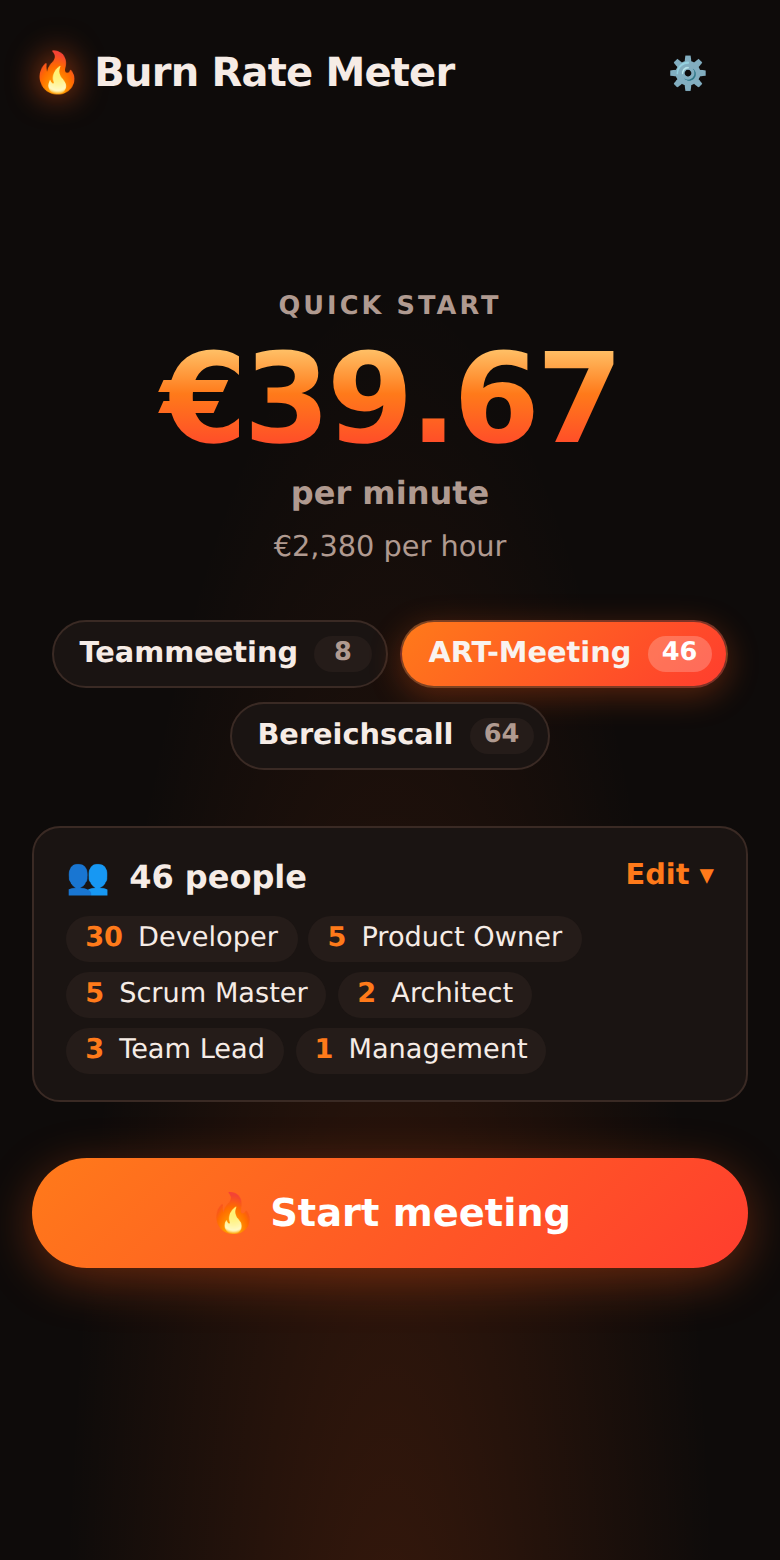
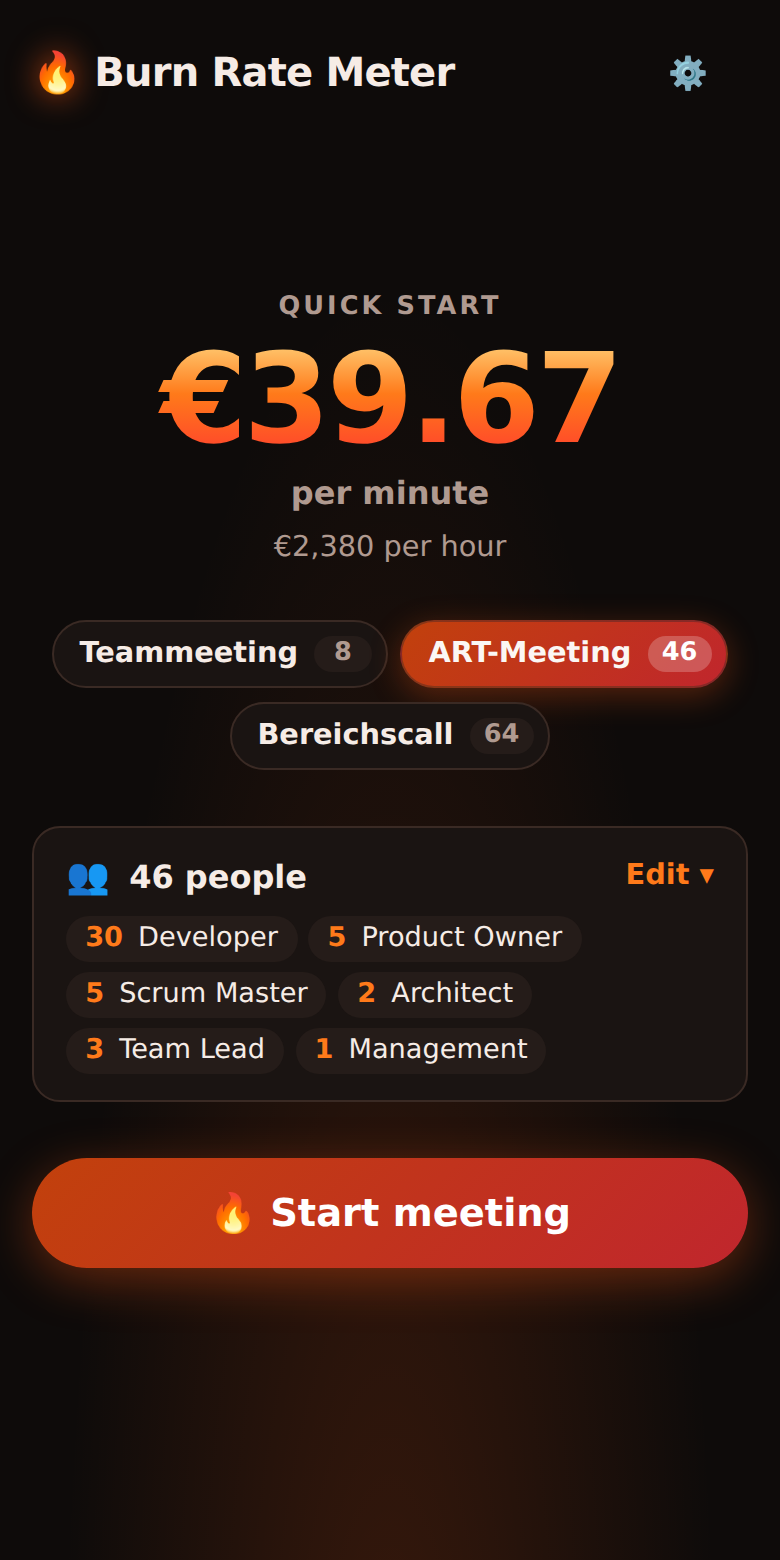
Meet WCAG AA contrast and add accessibility tests
- Add axe scans (WCAG 2.1 AA) of every screen in light and dark mode
- Add a keyboard-only test that runs a whole meeting
- Darken button fills and small accent text to reach 4.5:1
- Tone down absent roles with muted colors instead of opacity
- Regenerate README screenshots with the new colors

Changed region(s): [[0.0308, 0.7385, 0.9538, 0.8308], [0.4923, 0.4, 0.9538, 0.4615]]

diff --git a/e2e/a11y.spec.ts b/e2e/a11y.spec.ts
@@ -1,0 +1,80 @@
+import { AxeBuilder } from '@axe-core/playwright'
+import { expect, test, type Page } from '@playwright/test'
+
+// Scans every screen with axe (WCAG 2.1 A/AA) in both color schemes.
+
+async function expectNoViolations(page: Page) {
+  // Scan the settled screen: mid-fade elements would report false contrast issues.
+  await page.waitForTimeout(700)
+  const results = await new AxeBuilder({ page }).withTags(['wcag2a', 'wcag2aa', 'wcag21a', 'wcag21aa']).analyze()
+  const summary = results.violations.map((v) => ({
+    rule: v.id,
+    impact: v.impact,
+    nodes: v.nodes.map((n) => `${n.target.join(' ')} – ${n.failureSummary?.split('\n').slice(1).join(' ')}`),
+  }))
+  expect(summary).toEqual([])
+}
+
+for (const colorScheme of ['light', 'dark'] as const) {
+  test.describe(`${colorScheme} mode`, () => {
+    test.use({ colorScheme, reducedMotion: 'reduce' })
+
+    test('quick start, with and without the attendee list', async ({ page }) => {
+      await page.goto('/')
+      await expect(page.getByRole('button', { name: 'Meeting starten' })).toBeVisible()
+      await expectNoViolations(page)
+      await page.getByRole('button', { name: /anpassen/i }).click()
+      await expect(page.getByLabel('Architect · 60 €/h', { exact: true })).toBeVisible()
+      await expectNoViolations(page)
+    })
+
+    test('meter and result', async ({ page }) => {
+      await page.goto('/')
+      await page.getByRole('button', { name: /Teammeeting/ }).click()
+      await page.getByRole('button', { name: 'Meeting starten' }).click()
+      await page.getByRole('button', { name: /anpassen/i }).click()
+      await expect(page.getByLabel('Architect · 60 €/h', { exact: true })).toBeVisible()
+      await expectNoViolations(page)
+      await page.getByRole('button', { name: /Beenden/ }).click()
+      await expect(page.getByRole('button', { name: 'Nochmal gleich' })).toBeVisible()
+      await expectNoViolations(page)
+    })
+
+    test('settings and reset dialog', async ({ page }) => {
+      await page.goto('/')
+      await page.getByRole('button', { name: /Einstellungen/ }).click()
+      await page.getByRole('button', { name: /^Teammeeting/ }).click()
+      await expect(page.getByLabel('Name der Vorlage')).toBeVisible()
+      await expectNoViolations(page)
+      await page.getByRole('button', { name: 'Auf Standard zurücksetzen' }).click()
+      await expect(page.getByRole('dialog')).toBeVisible()
+      await expectNoViolations(page)
+    })
+  })
+}
+
+test('a whole meeting works with the keyboard only', async ({ page }) => {
+  await page.goto('/')
+  const tabTo = async (name: string | RegExp) => {
+    const target = page.getByRole('button', { name })
+    for (let i = 0; i < 40 && !(await target.evaluate((el) => el === document.activeElement)); i++) {
+      await page.keyboard.press('Tab')
+    }
+    await expect(target).toBeFocused()
+  }
+
+  await tabTo(/Teammeeting/)
+  await page.keyboard.press('Enter')
+  await tabTo('Meeting starten')
+  await page.keyboard.press('Enter')
+
+  await tabTo(/Pause/)
+  await page.keyboard.press('Enter')
+  await expect(page.getByRole('button', { name: /Weiter/ })).toBeVisible()
+  await tabTo(/Beenden/)
+  await page.keyboard.press('Enter')
+
+  await tabTo('Nochmal gleich')
+  await page.keyboard.press('Space')
+  await expect(page.getByRole('button', { name: /Pause/ })).toBeVisible()
+})

diff --git a/src/index.css b/src/index.css
@@ -9,6 +9,12 @@
   --text-muted: #b09a90;
   --accent: #ff7a1a;
   --accent-2: #ff3d2e;
+  /* Accent for small text: at least 4.5:1 on every surface (WCAG AA) */
+  --accent-text: #ff7a1a;
+  /* Fills behind white text (buttons, active pill): at least 4.5:1 with white */
+  --cta-from: #c2410c;
+  --cta-to: #c0262d;
+  --danger-solid: #c4302b;
   --counter-top: #ffd27a;
   --danger: #e5484d;
   --danger-text: #ffb4b0;
@@ -36,6 +42,7 @@
     --text-muted: #7c655b;
     --accent: #e85d04;
     --accent-2: #d62a1c;
+    --accent-text: #b34700;
     --counter-top: #ff9f2e;
     --danger: #d1343a;
     --danger-text: #b4232a;
@@ -55,6 +62,7 @@
   --text-muted: #7c655b;
   --accent: #e85d04;
   --accent-2: #d62a1c;
+  --accent-text: #b34700;
   --counter-top: #ff9f2e;
   --danger: #d1343a;
   --danger-text: #b4232a;
@@ -182,14 +190,14 @@ main {
 
 .btn-primary {
   border: none;
-  background: linear-gradient(135deg, var(--accent), var(--accent-2));
+  background: linear-gradient(135deg, var(--cta-from), var(--cta-to));
   color: #fff;
   box-shadow: 0 6px 24px rgb(var(--glow) / calc(0.35 * var(--glow-strength)));
 }
 
 .btn-danger-solid {
   border: none;
-  background: var(--danger);
+  background: var(--danger-solid);
   color: #fff;
 }
 
@@ -370,7 +378,7 @@ main {
 
 .preset-pill-active {
   border-color: transparent;
-  background: linear-gradient(135deg, var(--accent), var(--accent-2));
+  background: linear-gradient(135deg, var(--cta-from), var(--cta-to));
   color: #fff;
   box-shadow: 0 4px 16px rgb(var(--glow) / calc(0.3 * var(--glow-strength)));
 }
@@ -420,14 +428,12 @@ main {
   color: var(--text-muted);
 }
 
-/* Roles nobody brings are dimmed so the actual attendees stand out. */
-.attendee-absent {
-  opacity: 0.55;
-}
-
-.attendee-absent:focus-within,
-.attendee-absent:hover {
-  opacity: 1;
+/* Roles nobody brings are toned down (muted text, not transparency, to keep
+   the contrast readable) so the actual attendees stand out. */
+.attendee-absent .attendee-name,
+.attendee-absent .stepper-input input {
+  font-weight: 500;
+  color: var(--text-muted);
 }
 
 /* Meter */
@@ -773,7 +779,7 @@ main {
 }
 
 .settings-add {
-  color: var(--accent);
+  color: var(--accent-text);
 }
 
 .settings-add:hover,
@@ -903,14 +909,14 @@ main {
   margin-right: 0.2rem;
   font-weight: 800;
   font-variant-numeric: tabular-nums;
-  color: var(--accent);
+  color: var(--accent-text);
 }
 
 .attendees-action {
   flex-shrink: 0;
   font-size: 0.9rem;
   font-weight: 600;
-  color: var(--accent);
+  color: var(--accent-text);
 }
 
 .chevron {

diff --git a/CLAUDE.md b/CLAUDE.md
@@ -31,6 +31,7 @@ A single-page React 19 + TypeScript app (Vite), with no router and no backend. `
 
 - Unit tests (Vitest) cover the pure logic in `src/lib` and `src/i18n`. `src/hooks/useMeetingTimer.test.ts` runs in jsdom (per-file `@vitest-environment` comment) with faked `performance` + `requestAnimationFrame`, under React strict mode.
 - `e2e/meeting.spec.ts` drives a full meeting under Playwright's fake clock, **paused** via `clock.pauseAt` so time only moves with `clock.runFor()`. It deletes `Element.prototype.animate` in an init script: Motion otherwise animates opacity through the Web Animations API, whose `document.timeline` the fake clock doesn't advance, so exit animations (and `AnimatePresence mode="wait"` view switches) would never finish. After Pause/Beenden, advance the clock a little before reading the counter — the timer swaps the last frame's value for the exact time.
+- `e2e/a11y.spec.ts` scans every screen with axe (WCAG 2.1 AA) in light and dark mode and drives a meeting by keyboard. axe skips gradients, so text on colored fills must use the `--cta-*` / `--danger-solid` tokens, and small accent text `--accent-text` (all checked to reach 4.5:1). Dim things with muted colors, never with `opacity`.
 - The e2e tests pin the browser locale to `de-DE` (the app auto-detects its language); override with `test.use({ locale })`.
 
 ## Conventions
